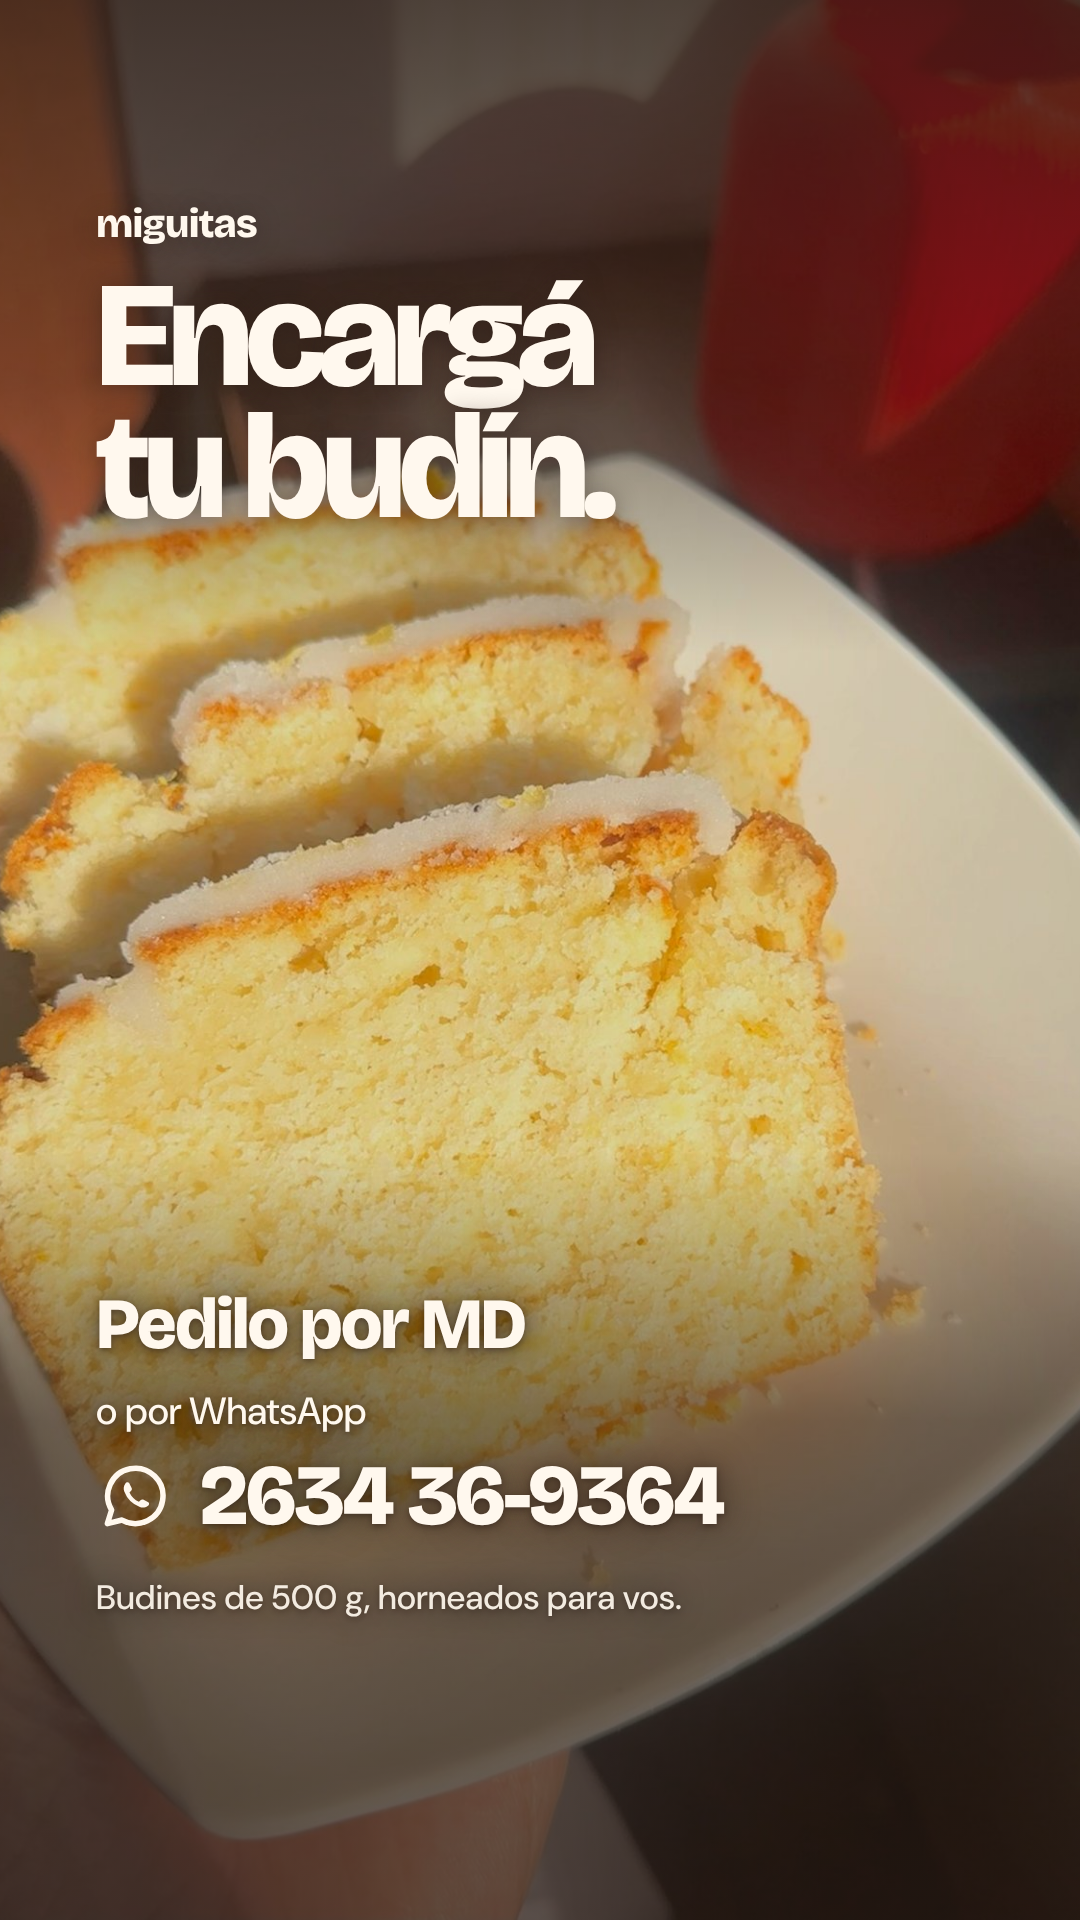
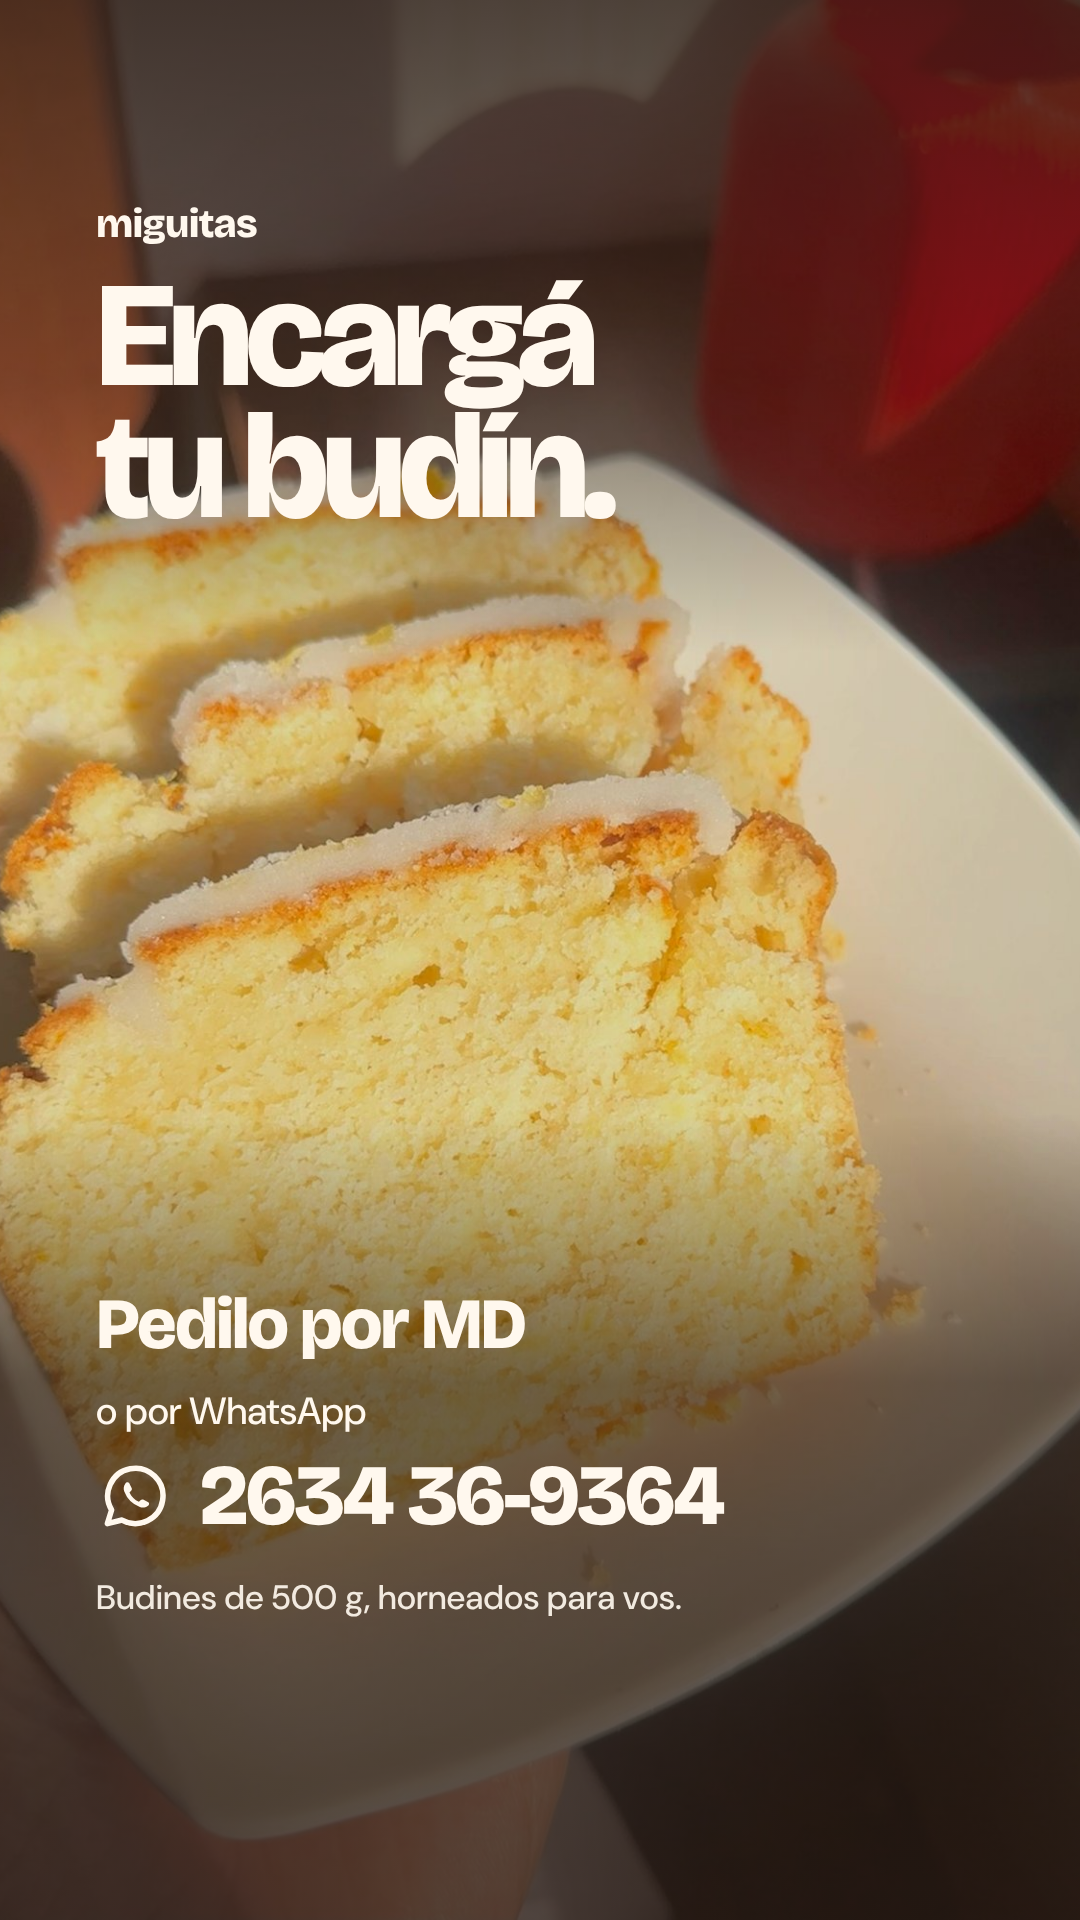
Historia encargá: letras limpias sin sombra
Claude-Session: https://claude.ai/code/session_01AV7UuVhKxUTNvFiCSwisCu

diff --git a/historias/encarga-tu-budin.html b/historias/encarga-tu-budin.html
@@ -6,11 +6,9 @@
 *{margin:0;padding:0;box-sizing:border-box}
 html,body{width:1080px;height:1920px;font-family:var(--texto)}
 .h{position:relative;width:1080px;height:1920px;background:url(limon-plato.jpg) 50% 60%/cover;color:var(--crema);overflow:hidden}
-.h::before{content:"";position:absolute;inset:0;background:linear-gradient(180deg,rgba(43,29,22,.8) 0%,rgba(43,29,22,.5) 20%,rgba(43,29,22,0) 34%,rgba(43,29,22,0) 60%,rgba(43,29,22,.55) 74%,rgba(43,29,22,.72) 100%)}
+.h::before{content:"";position:absolute;inset:0;background:linear-gradient(180deg,rgba(43,29,22,.8) 0%,rgba(43,29,22,.5) 20%,rgba(43,29,22,0) 34%,rgba(43,29,22,0) 58%,rgba(43,29,22,.62) 72%,rgba(43,29,22,.78) 100%)}
 .top,.bot{position:absolute;left:96px;right:96px}
 .top{top:200px}
-.top{text-shadow:0 2px 24px rgba(43,29,22,.45)}
-.bot{text-shadow:0 2px 6px rgba(43,29,22,.55),0 0 34px rgba(43,29,22,.75)}
 .marca{font-family:var(--display);font-weight:800;font-size:40px;letter-spacing:-.02em}
 h1{margin-top:22px;font-family:var(--display);font-weight:800;font-size:150px;letter-spacing:-.05em;line-height:.88}
 .bot{bottom:300px}
